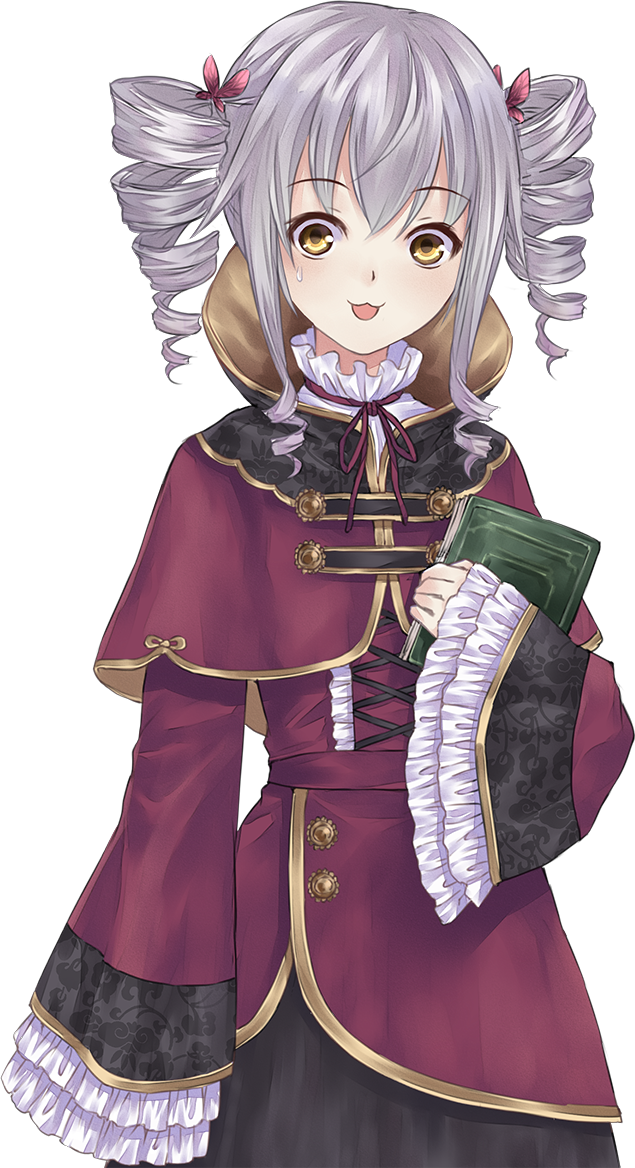
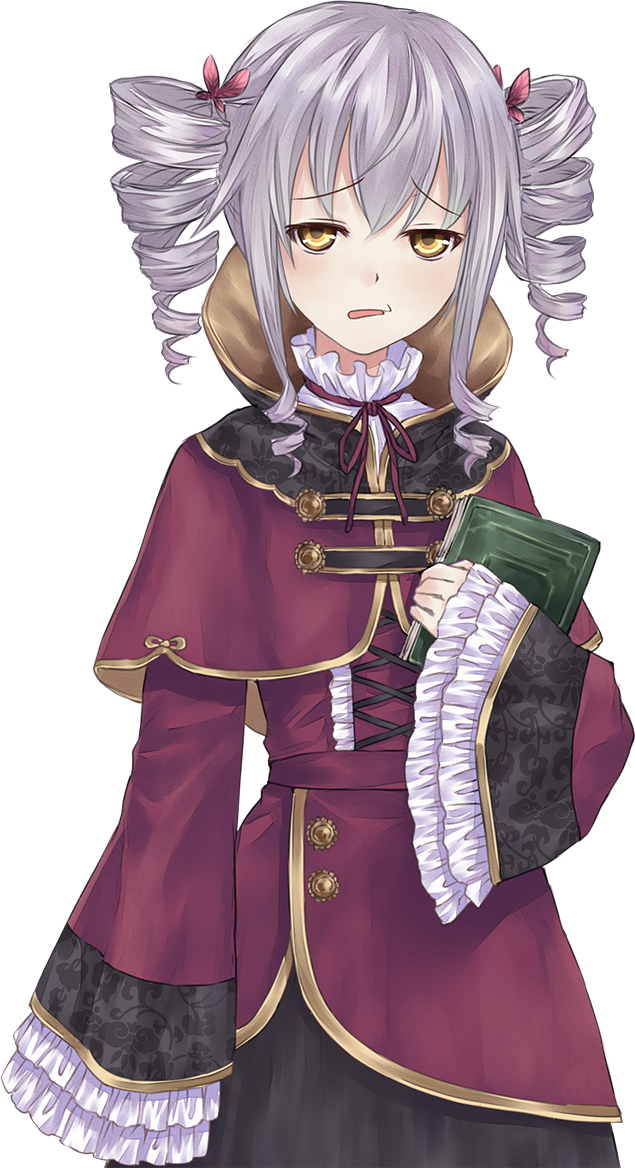
主页设计

Changed region(s): [[0.6283, 0.1541, 0.748, 0.2466], [0.4488, 0.1541, 0.5685, 0.2466], [0.5386, 0.2466, 0.5984, 0.2774]]

diff --git a/EduSite/Statics/css/edu/student/student_main.css b/EduSite/Statics/css/edu/student/student_main.css
@@ -63,7 +63,6 @@ body {
 }
 
 
-
 /*-------------------------------------------------------------*/
 #lesson_panel {
     left: 0rem;
@@ -75,11 +74,12 @@ body {
 
 #girl_panel {
     left: 0rem;
-    top: 0rem;
-    width: 13.9375rem;
-    height: 33.25rem;
-    position: absolute;    
+    top: 6rem;
+    width: 19rem;
+    height: 38rem;  
+    position: fixed;
     border: 1px dotted;
+    content: url('/Statics/images/yoyo4.png');    
 }
 
 #exam_entrance {
@@ -122,41 +122,75 @@ body {
     text-align: center;
 }
 
+#tree_img {
+    z-index: 0;
+    top: 8.5rem;
+    right: 0.2rem;
+    position: absolute;
+    opacity: 0.9;
+}
+
 #notice_panel #inner_panel {
-    height: 14rem;
-    margin: 0.35rem 0.75rem 0.5rem 0.5rem;
+    z-index: 2;
+    height: 10rem;
+    margin: 0.8rem 0.75rem 0.5rem 0.5rem; 
     padding: 0.125rem 0.125rem 0.125rem 0.125rem;
-    background-color: white;
+    background-color: rgba(255, 255, 255, 0.95);
     border-style: solid;
     border-radius: 0.75rem;
     border-top-color: #d1dfe3;
     border-bottom-color: #8793bf;
-    border-width: 1.75rem 0rem 0.25rem 0rem;
+    border-width: 2rem 0rem 0.25rem 0rem;
     box-shadow: 0.25rem 0.125rem 0.1rem #8793bf;
-    text-align: center;
 }
 
 #notice_panel #inner_panel h3 {
-    color: #628db2;
+    color: #6898c2;
+    font-size: 1.4rem;
     font-weight: 900;
     position: absolute;
-    top: -0.4rem;
+    top: -0.3rem;
     width: 92%;
     text-align: center;
+    text-indent: 0em;
+    text-shadow: 0.125rem 0.125rem 0.5rem #32515c;
 }
+
+#notice_show {
+    padding: 0.1rem 0.8rem 0.5rem 0.8rem;
+    font-size: 1.1rem;
+    color: #dd6755;
+    position: relative;
+    top: 0.4rem;
+    line-height: 1.3em;
+    text-align: left;
+    text-indent: 2em;
+    text-shadow: 0rem 0rem 0.05rem #64281f;
+}
+
 
 #billboard_panel {
-    text-align: center;
-    border: 1px dashed;
+    text-align: left;
+    height: 16.4rem;
+    background-image: url('/Statics/images/BGs/billboard-bg.png');
+    background-repeat: no-repeat;
+    background-size: cover;
 }
 
-#login-title {
-    font-size: 250%;
+#billboard_content {
     position: relative;
-    top: 48px;
-    color: aliceblue;
-    text-shadow: 3px 3px 3px rgb(51,115,145)
+    top: 4rem;
+    line-height: 1.4em;
 }
+
+#billboard_content li {
+    position: relative;
+    left: -0.8rem;
+    width: 96%;
+    list-style-type:none;
+    border: 1px dotted;
+}
+
 
 #panel-bg {
     width: 100%;

diff --git a/EduSite/Templates/user/student_main.html b/EduSite/Templates/user/student_main.html
@@ -50,20 +50,17 @@
         </div>
     </div>
     <div class="" id="hanging_panel">
-        <div class="card text-white bg-warning mb-3" id="notice_panel">
+        <div class="card text-white bg-warning mb-3" id="notice_panel">  
+            <img src="{% static 'images\tree.png' %}" id="tree_img"/>
             <div id="inner_panel">
                 <h3>公  告</h3>
                 <div class="card-body" id="notice_show" data-url="{% url 'notice:ongoing' %}">                        
                     公布一些内容
                 </div>
-            </div>
+            </div>            
         </div>
-        <br>
         <div class="card text-white bg-info mb-3" id="billboard_panel">
-            <div class="card-header text-center">
-                <h3>排行榜</h3>
-            </div>
-            <div class="card-body">
+            <div class="card-body" id="billboard_content">
                 <ul class="list-group list-group-flush">
                     <li class="list-group-item">萧峰</li>
                     <li class="list-group-item">令狐冲</li>
